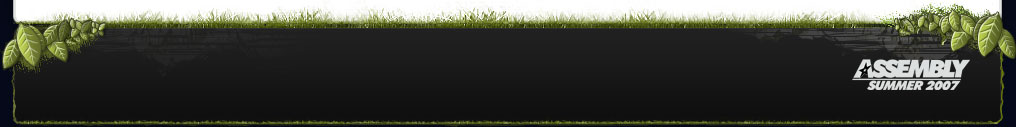
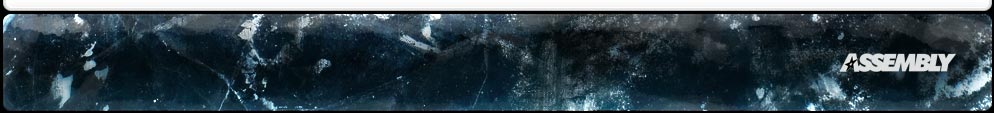
Initial Winter2010 skin

diff --git a/extensions/asm.summer09/src/asm/summer09/static/style.css b/extensions/asm.summer09/src/asm/summer09/static/style.css
@@ -4,8 +4,8 @@
 /* http://www.assembly.org/summer09/portal_css/style.css?original=1 */
 /* */
 h1, h2, h3, h4, h5 {color:#333; border:0; font-family:"Trebuched MS", Verdana, Arial; font-weight:bold;}
-a, a:link {color:#6e8f10;}
-a:visited {color:#303F08;}
+a, a:link {color:#2d778e;}
+a:visited {color:#21484e;}
 a:hover {text-decoration:underline; color:#e70101;}
 h2 a, h2 a:link, h2 a:visited {text-decoration:none; color:#333;}
 h1 {font-size:2em; border-bottom:1px solid #ccc; }
@@ -22,13 +22,13 @@ p.subtitle {font-weight:bold; font-size:0.9em; margin:0;}
 span.date {color:#6e8f10;}
 #content-column h1 {margin:20px 0 5px 0; padding:0;}
 #content-column h2 {margin:10px 0 5px 0; padding:0;}
-#footer-links {margin:70px 0 0 20px;}
+#footer-links {margin:30px 0 0 20px; color:#efefef; text-align:center;}
 #footer-links a {color:white; text-decoration:none; font-weight:bold;}
 #footer-links a:hover {text-decoration:underline;}
-#footer-links span {color:#353535}
-#footer-links span a {color:#353535;}
 #footer #banner-bottom {margin:35px 180px 0 170px;}
-a#home {width:205px; height:177px; display:block; float:left;}
+h1#home {margin:0;text-indent:-9999cm; border:0;}
+h1#home a {width:300px; height:177px; display:block; float:left; text-indent:-9999cm;}
+#tickets {width:300px; height:177px; display:block; float:right; text-indent:-9999cm;}
 #banner-top {float:left; margin:90px 0 0 95px;}
 #button-top-1, #button-top-2  {margin: 82px 2px 0 0px; width:157px; height:70px; float:right; padding:2px;}
 #button-top-2 {margin-right:80px; width:130px;}
@@ -39,7 +39,7 @@ a#home {width:205px; height:177px; display:block; float:left;}
 .sponsors {text-align:center;}
 .sponsors h4 {margin:0 4px 10px 0;}
 body {
-background:url("images/site-bg.jpg") #060e23 center top no-repeat;
+background:url("images/site-bg.jpg") #030a13 center top no-repeat;
 padding:0 0 0 0;
 margin:0;
 font-family:Verdana, "Trebuchet MS", "Lucida Grande", Arial, Sans-serif;
@@ -57,14 +57,14 @@ height:177px;
 #subheader {
 background:url("images/subheader-bg.gif") no-repeat;
 color:#585858;
-height:46px;
+height:36px;
 padding:14px 20px 0 20px;
 font-weight:bold;
 font-size:1em;
 }
 #container {
 background:url("images/container-bg.gif") bottom left repeat-y #f5f5f5;
-padding-top:7px;
+padding-top:10px;
 margin:0 2px 0 3px;
 }
 #container-right {float:right; }
@@ -73,7 +73,7 @@ width:581px;
 display:inline;
 float:left;
 }
-#content-padding {padding:10px;}
+#content-padding {padding:0 10px 0 10px;}
 #leftbar {
 padding:0 2px 0 6px;
 width:197px;
@@ -85,7 +85,7 @@ width:197px;
 float:right;
 }
 #footer {
-background:url("images/footer-bg.gif") no-repeat transparent;
+background:url("images/footer-bg.jpg") no-repeat transparent;
 clear:both;
 color:#ccc;
 height:127px;
@@ -93,9 +93,9 @@ padding:20px 0 0 0;
 margin:0 auto 20px auto;
 width:994px;
 }
-#subheader form {display:inline; margin:-1px 10px 0 0;}
+#subheader form {display:inline; margin:-1px 0 0 0;}
 #subheader input {margin:0 0 0 5px; padding-left:20px; background:url("images/search-bg.gif") no-repeat; border-color:#ccc; color:#555;}
-#subheader .submit {background:#9db615; color:white; padding-left:5px;}
+#subheader .submit {background:#4aa7c4; color:white; padding-left:5px; border:0; font-size:12px; padding:2px 5px;}
 #subheader div {float:right; position:relative; display:inline; margin-top:-1px;}
 #subheader span {float:left; padding-top:2px;}
 #subheader p {margin:0; display:inline;}
@@ -110,42 +110,11 @@ tr.running {font-weight:bold; background:#e4e4e4}
 tr.future {}
 ul {list-style-image:none; list-style-type:disc;margin-bottom:10px;}
 hr {color: #999; background-color: #e4e4e4; margin:15px 0 5px 0; clear:both;}
-/* */
-#siteguide {
-top:221px;
-position:absolute;
-width:987px;
-}
-#sguide-content {
-height:215px;
-padding:0 0 0 8px;
-width:979px;
-background:url("images/sguide-bg.gif") no-repeat #333333;
-margin-left:4px;
-}
-#sguide-content .sguide-section {
-float:left;
-height:80px;
-padding:10px 20px 10px 20px;
-width:280px;
-margin:0 5px 0 0;
-overflow:hidden;
-}
-#sguide-content .section-first {padding:15px 20px 10px 20px; height:65px;}
-#sguide-content h4 {margin:10px 0 5px 0;}
-#sguide-content p {margin:0; padding:0;}
-#sguide-content-padding {padding-top:17px;}
-#sguide-content a:link, #sguide-content a:visited {color:black; text-decoration:none;}
-#sguide-bottom-show, #sguide-bottom-hide {
-background:url("images/sguide-show.gif") center top no-repeat;
-height:30px;
-width:987px;
-margin-left:4px;
-}
-#sguide-bottom-hide {background:url("images/sguide-hide.gif") center top no-repeat;}
-.sguide-text {cursor:pointer;text-align:center; color:white; margin-left:212px; padding-top:11px; font-weight:bold; width:570px; height:17px;}
-/* */
-#navigation {padding:0 5px 0 0; margin:0 0 20px 0; list-style-type:none; list-style-position: outside; font-weight:bold; }
+p {margin:0 0 1.5em 0;}
+
+
+#navigation ul {margin:0; padding:0;}
+#navigation {padding:0 0 0 0; margin:0 5px 20px 0; list-style-type:none; list-style-position: outside; font-weight:bold; overflow:hidden;}
 #navigation a {color:black;text-decoration:none;}
 #navigation a:hover {color:black;}
 #navigation li a:before {content:url("images/bullet-arrows.gif"); margin-right:5px;}
@@ -161,26 +130,40 @@ margin:0;
 padding:5px 0 0 10px;
 display:block;
 }
-#navigation li.active {padding:0;}
-#navigation li.active a {background-image:url("images/nav-sub-bg-top.gif"); color:#9db615;padding:2px 0 9px 20px;}
+#navigation .active {padding:0;}
+#navigation .active a {background-image:url("images/w8-nav-sub-bg-top.gif"); color:white;padding:2px 0 12px 20px;}
 /* */
-#navigation li.nav-level1 a:before, #navigation li.active a:before {content:"";}
-#navigation li.nav-level1 {width:192px; background: url("images/nav-sub-bg-bottom.gif") #201f1f 0 100% no-repeat; padding:0 0 5px 0; margin:0 0 5px 0;}
-#navigation li.nav-level1 a {
+#navigation .active ul li a:before, #navigation .active a:before {content:"";}
+#navigation .active ul li {width:192px; background: url("images/nav-sub-bg-bottom.gif") #201f1f 0 100% no-repeat; padding:0 0 5px 0; margin:0 0 0 0;}
+#navigation .active ul li a {
 background-image:none;
 color:white;
 margin:0 2px 0 0;
 padding-left:30px;
 border-bottom:1px dotted #3e3e3e;
 }
-#navigation li.nav-level1:hover a {}
-#navigation li.nav-level1 a:hover {text-decoration:underline;}
-#navigation li.nav-level1 a.active {}
-#navigation li.nav-level1 li {background-image:none; color:#000;}
-#navigation .nav-level2 {margin:5px 0 5px 20px; font-weight:normal; }
-#navigation .nav-level2 a {padding-left:10px !important; padding-bottom:2px; border:0 !important;}
-#navigation .nav-level2 a.active {font-weight:bold;}
-#navigation .nav-level3 {padding-left:5px; margin-bottom: 5px; border-top:1px dotted #333;}
+
+/*#navigation ul ul {display:none;}
+#navigation .active ul {display:block;}*/
+#navigation .active ul:hover a {}
+#navigation .active ul a:hover {text-decoration:underline;}
+#navigation .active ul a.active {}
+
+#navigation .active ul li a {
+background:transparent url(images/w8-bullet-dark-bg.gif) no-repeat scroll left center;
+border-bottom:1px dotted #3E3E3E;
+color:white;
+margin:0 2px 0 20px;
+padding:0 0 1px 12px;
+}
+
+#navigation .active ul li {background-image:none; color:#000;}
+#navigation .active ul ul li {margin:5px 0 5px 11px; }
+#navigation .active ul ul li a {padding:0; padding-bottom:2px;background:none;}
+#navigation .active ul ul ul li {padding-left:5px; margin-bottom: 5px; border-top:1px dotted #333; font-weight:normal;}
+#navigation .active ul ul ul li a {border:0;}
+/* */
+
 /* */
 .box-light {
 background: url("images/bg-box-light-bottom2.gif") 0 100% no-repeat;
@@ -280,39 +263,50 @@ padding:5px 10px 25px 10px;
 #nav-top {
 font-size:12px;
 position:absolute;
-top:10px;
+top:20px;
 left:0;
 height:70px;
 margin:0;
 padding:0;
 width:100%;
+
 }
-#nav-top-container {width:994px; margin:0 auto; padding:14px 0 0 0; height:60px;}
+#nav-top-container {
+    width:550px;
+    margin:0 auto;
+    padding: 8px 0 0 0;
+    height:24px;
+    background:#111;
+    border:2px solid #555;
+    -moz-border-radius:6px;
+    -webkit-border-radius:6px;
+}
 #nav-top a {
 padding:5px 10px 5px 5px;
 color:white;
 font-weight:bold;
 text-decoration:none;
-display:block;
-float:left;
+
 }
-#nav-top ul {margin:0 0 0 290px; height:45px; padding:0; overflow:hidden;}
+#nav-top ul {
+    margin:0;
+    text-align:center;
+    padding:0;
+    overflow:hidden;
+    }
+    
 #nav-top li {
-background:url("images/navtop-vline.gif") left no-repeat;
-margin-left:-5px;
-padding:4px 10px 5px 5px;
-display:block;
-float:left;
+margin:0 5px;
+padding:5px 5px 5px 5px;
+display:inline;
 list-style-type:none;
 }
-#nav-top li.active {
-background:url("images/navtop-bg-active-left.gif") center left no-repeat;
+
+#nav-top a:hover {
+text-decoration:underline;;
 }
-#nav-top li.active a {
-color:#454545;
-background: url("images/navtop-bg-active-right.gif") center right no-repeat;
-}
-#nav-top a:hover {text-decoration:underline;}
+
+
 .readmore-button {
 font-size:0.8em;
 display:block;

diff --git a/extensions/asm.summer09/src/asm/summer09/summer09.py b/extensions/asm.summer09/src/asm/summer09/summer09.py
@@ -33,7 +33,7 @@ class LayoutHelper(grok.View):
                   (None, False, "ASSEMBLY is over."),)
         format = '%d.%m.%Y %H:%M'
 
-        now = datetime.datetime.now(tzinfo=pytz.UTC)
+        now = datetime.datetime.now()
 
         for (limitString, doCountDown, showString) in times:
             limit = None
